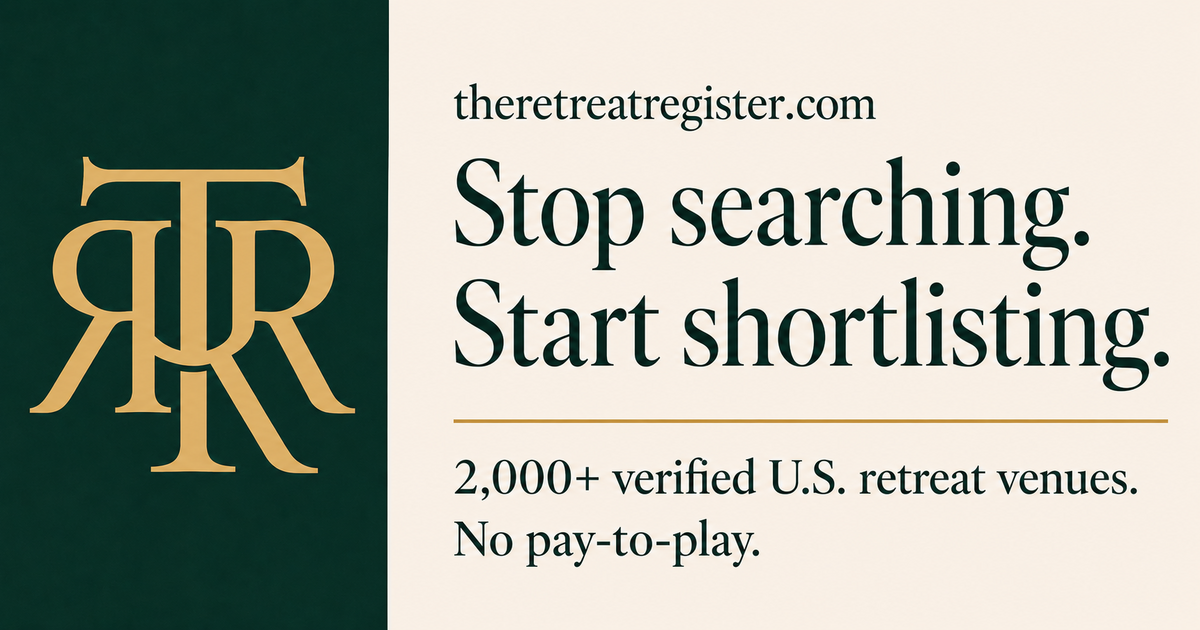
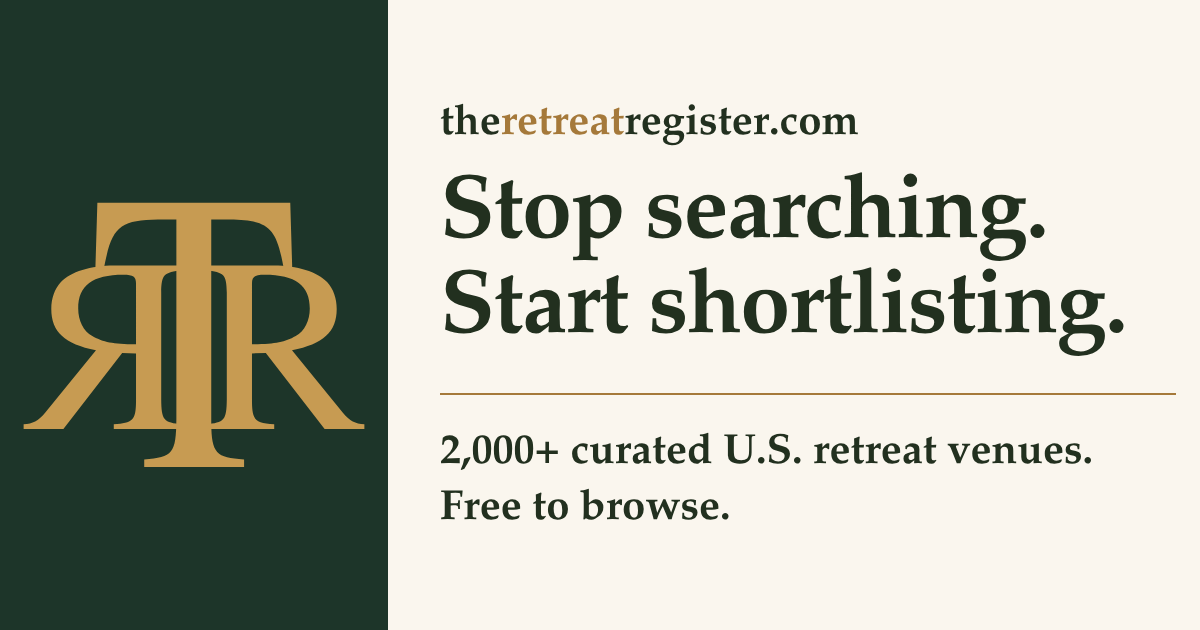
Share preview: new card, Curated title, manifest claim removed (Ashton 2026-10-26)

diff --git a/index.html b/index.html
@@ -11,13 +11,13 @@
 </script>
 <meta charset="utf-8">
 <meta name="viewport" content="width=device-width, initial-scale=1">
-<title>The Retreat Register — Verified Corporate Retreat Venues</title>
+<title>The Retreat Register — Curated Corporate Retreat Venues</title>
 <meta name="description" content="A national directory of corporate retreat venues — resorts, lodges, and conference estates. Retreat venues cataloged and curated from across the U.S. Launching 2026.">
 <link rel="canonical" href="https://theretreatregister.com/">
 <meta name="robots" content="index, follow, max-image-preview:large">
 <meta property="og:type" content="website">
 <meta property="og:site_name" content="The Retreat Register">
-<meta property="og:title" content="The Retreat Register — Verified Corporate Retreat Venues">
+<meta property="og:title" content="The Retreat Register — Curated Corporate Retreat Venues">
 <meta property="og:description" content="Retreat venues cataloged and curated from across the U.S. Launching 2026.">
 <meta property="og:url" content="https://theretreatregister.com/">
 <meta property="og:image" content="https://theretreatregister.com/assets/og-default.png">
